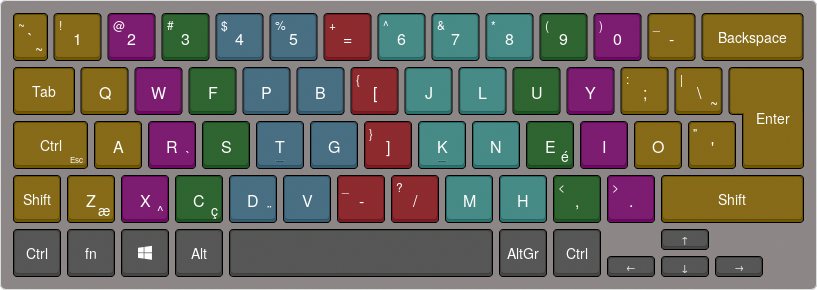
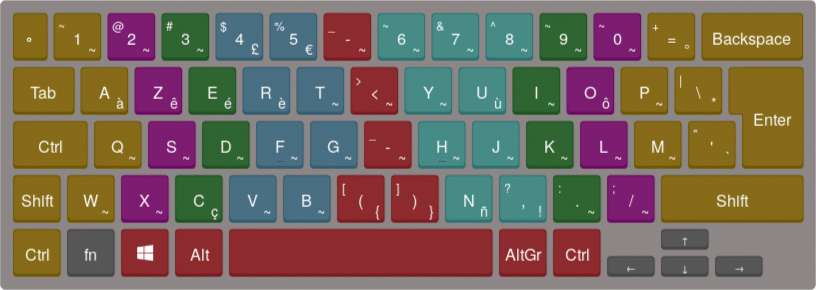
add modded fr keymap

Changed region(s): [[0.0, 0.0, 1.0, 0.9621], [0.0, 0.9931, 1.0, 1.0], [0.8578, 0.6517, 0.9191, 0.7138]]

diff --git a/README.md b/README.md
@@ -1,8 +1,8 @@
-This repo contains a definition of my colemak-based custom keyboard layout, and
+This repo contains a definition of my custom keyboard layout, and
 scripts to transform a xkb definition into data suitable to be used with
 http://www.keyboard-layout-editor.com
 
-The layout is a [colemak](https://colemak.com/) layout extended with various
+The layout is a French layout extended with various
 [mods](https://colemakmods.github.io/ergonomic-mods/index.html) and personal
 tweaks.
 
